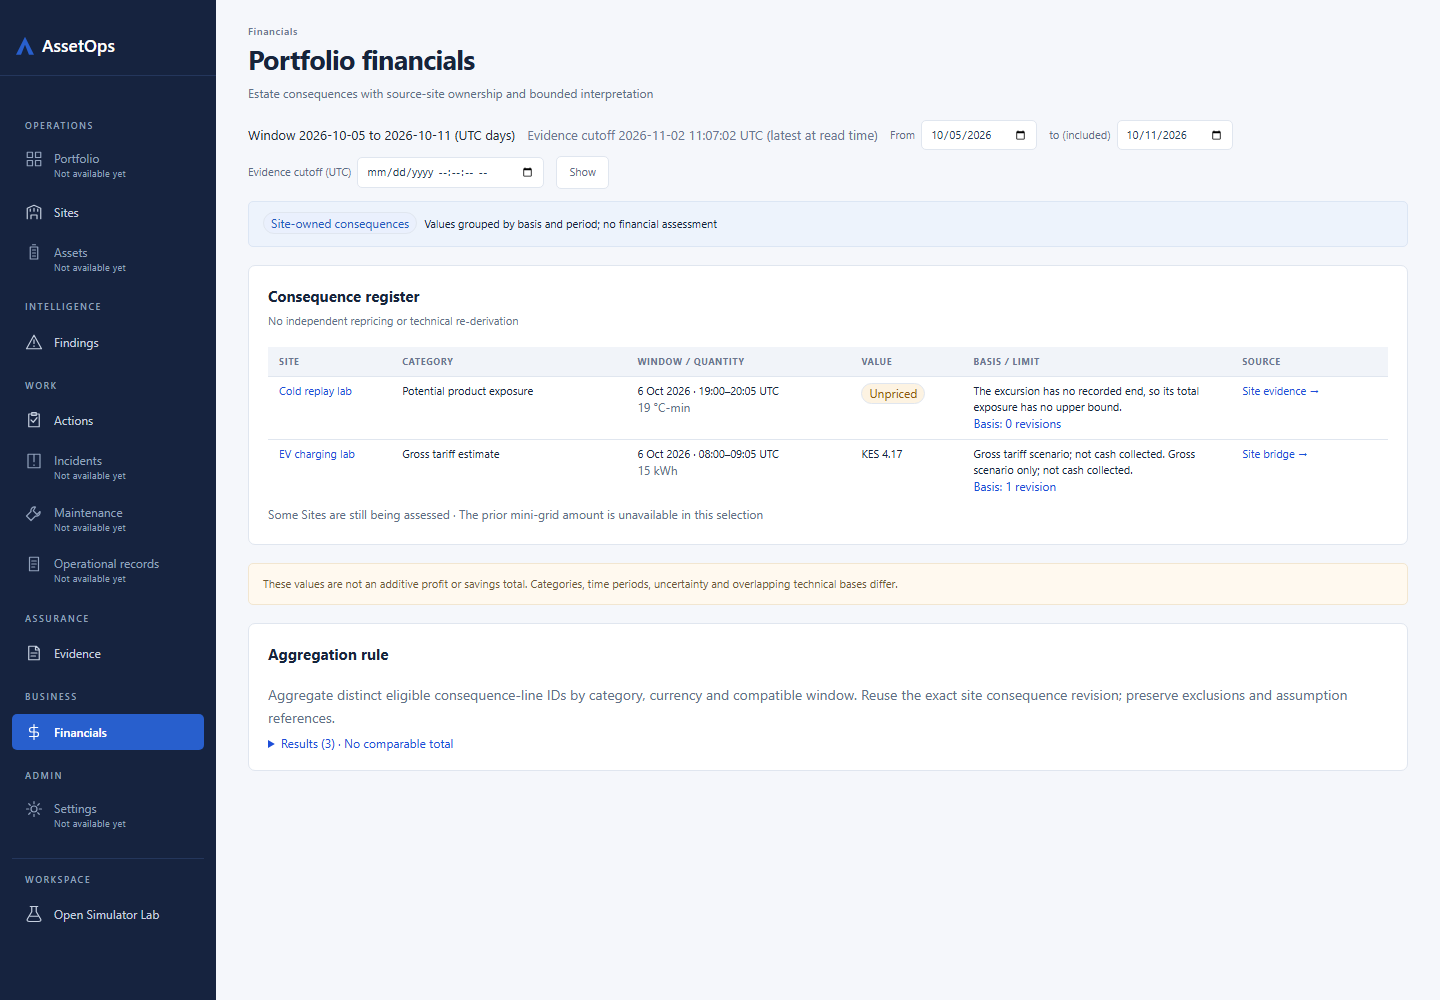
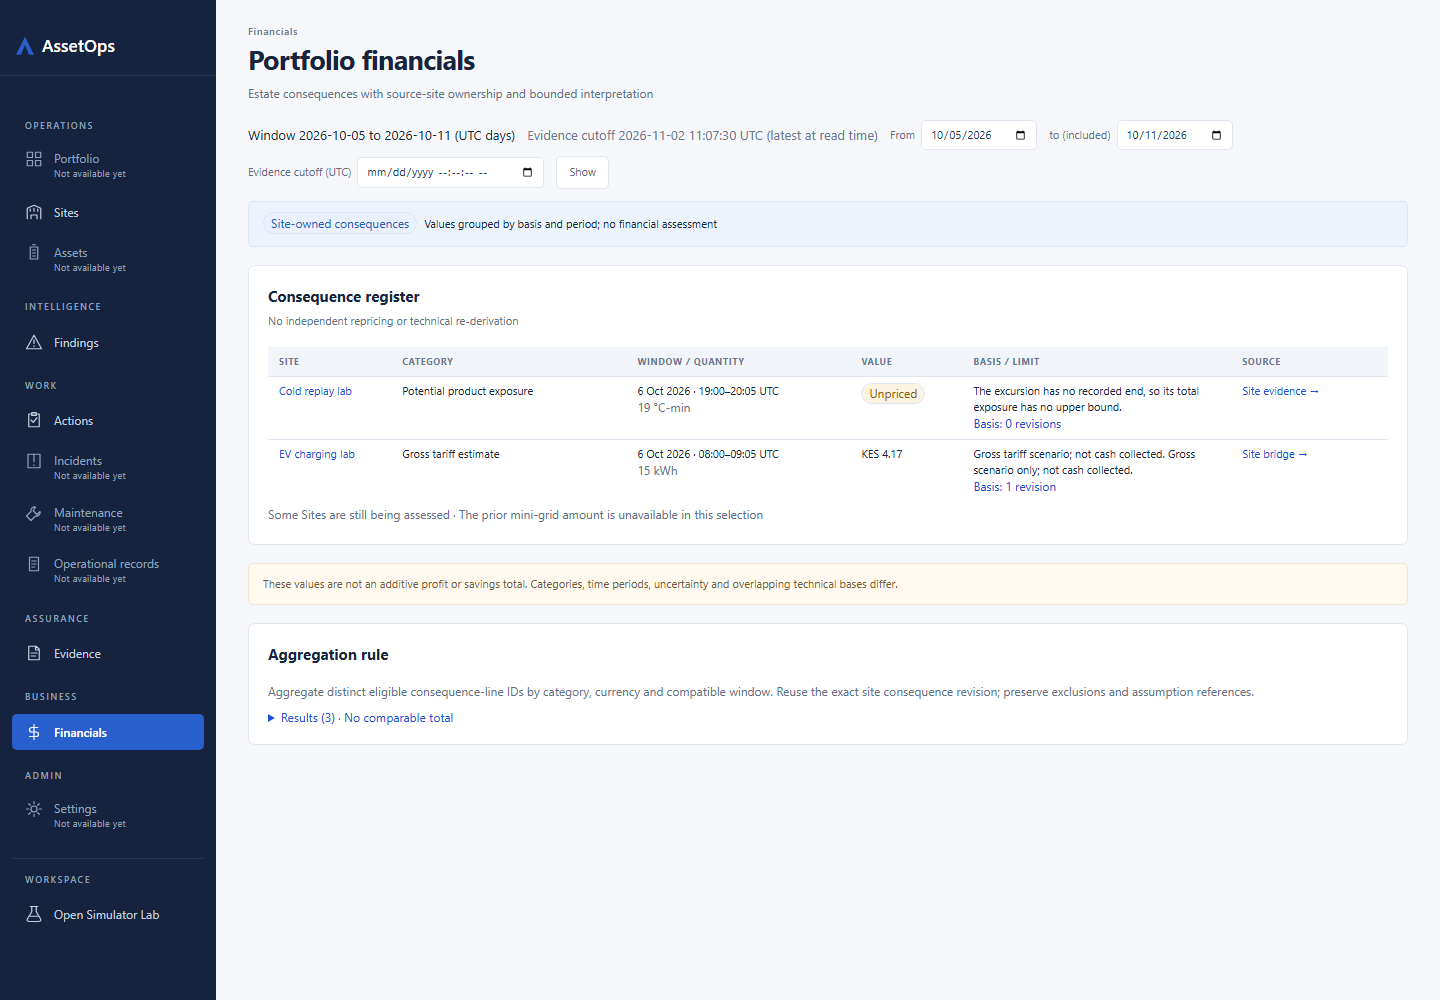
W3-02 c4b: Aggregation prose at mock 12px/1.8, both caps asserted, recaptured

Changed region(s): [[0.1875, 0.682, 0.9375, 0.744]]

diff --git a/frontend/src/estate/__tests__/estateFinancials.test.tsx b/frontend/src/estate/__tests__/estateFinancials.test.tsx
@@ -488,8 +488,7 @@ describe("W3-02 commit 4 measured Financials layout", () => {
     // jsdom has no layout: this reads the real-browser 390 px measurements of the mounted `/financials` page
     // (`.agent/W3-02-evidence/capture-financials.mjs`). Ruling c4: the closed results summary stays within its 24 px
     // allowance at 12 px; opened, the results list never scrolls internally, every group/diagnostic/exclusion is visible
-    // and the page stays unclipped. The closed panel's 187 px cap is not met by the 14 px prose alone (pending c4-q4),
-    // so the panel height is recorded in the capture, not asserted here.
+    // and the page stays unclipped. Ruling c4b: the 12px/1.8 mock prose keeps the closed Aggregation panel within 123 (1440) / 187 (390).
     for (const state of ["positive", "partial"]) {
       const file = `../.agent/W3-02-evidence/app-financials-${state}.json`;
       const narrow = (JSON.parse(await readDisk(file)).results as Record<string, any>[]).find((r) => r.width === 390);
@@ -500,7 +499,7 @@ describe("W3-02 commit 4 measured Financials layout", () => {
       for (const piece of ["status", "register", "notice", "aggregation"]) {
         expect(narrow!.pieces[piece], `${state} ${piece} measured`).not.toBeNull();
       }
-      for (const piece of ["status", "register", "notice"]) {
+      for (const piece of ["status", "register", "notice", "aggregation"]) {
         expect(narrow!.pieces[piece].h, `${state} ${piece} within its 390 maximum`).toBeLessThanOrEqual(narrow!.maxima[piece]);
       }
       const t = narrow!.registerTable;
@@ -509,6 +508,16 @@ describe("W3-02 commit 4 measured Financials layout", () => {
       expect(t.rows).toBeGreaterThan(0);
       expect(t.scroll).toBeGreaterThanOrEqual(t.client); // the table scrolls inside its own container
       expect(t.client).toBeLessThanOrEqual(narrow!.docClientW);
+      const all = JSON.parse(await readDisk(file)).results as Record<string, any>[];
+      for (const r of all) {
+        expect(r.pieces.aggregation.h, `${state} ${r.width} aggregation within cap`).toBeLessThanOrEqual(r.width === 1440 ? 123 : 187);
+        expect(r.aggParts.proseFs).toBe("12px");
+        expect(r.aggParts.proseLh).toBe("21.6px");
+      }
+      const ap = narrow!.aggParts;
+      expect(ap.proseFs).toBe("12px");
+      expect(ap.proseLh).toBe("21.6px");
+      expect(narrow!.aggSummary.lines).toBe(1);
       const s = narrow!.aggSummary;
       expect(s.open).toBe(false);
       expect(s.fontSize).toBe("12px");

diff --git a/frontend/src/estate/EstateFinancials.tsx b/frontend/src/estate/EstateFinancials.tsx
@@ -405,8 +405,8 @@ export function EstateFinancialsPage({ client }: { client?: EstateFinancialsClie
           <Notice tone="amber" data={{ "data-estate-notice": "" }}>
             {FINANCIALS_NOTICE}
           </Notice>
-          <Panel heading={AGGREGATION_PANEL} headingId="estate-financials-aggregation-heading">
-            <p className="prose estate-financials-prose">{AGGREGATION_PROSE}</p>
+          <Panel heading={AGGREGATION_PANEL} headingId="estate-financials-aggregation-heading" className="estate-financials__aggregation">
+            <p className="prose estate-financials-prose estate-financials__aggregation-prose">{AGGREGATION_PROSE}</p>
             <AggregationResults body={read.value} />
           </Panel>
         </>

diff --git a/frontend/src/estate/estateFinancials.css b/frontend/src/estate/estateFinancials.css
@@ -67,3 +67,13 @@
     max-height: 300px;
   }
 }
+
+/* Ruling c4b: the mock's 12px / 1.8 prose; the 2px header-gap reduction absorbs the fractional 21.6px line boxes. */
+.estate-financials__aggregation .panel__header {
+  margin-bottom: 15px;
+}
+.estate-financials__aggregation .estate-financials__aggregation-prose {
+  margin: 0;
+  font-size: 12px;
+  line-height: 1.8;
+}

diff --git a/.agent/W3-02-phase-handoff.md b/.agent/W3-02-phase-handoff.md
@@ -395,3 +395,7 @@ Checks: see the commit message. Branch released.
 
 ## Commit-3 review r1 fix round (done)
 M1 (cold withheld -> covered=False, test extended), M2 (Composite repo already as ruled; RESOLVED marking corrected in pending rulings), L1 (only ERROR_PENDING pends), L2 (TARIFF_UNIT), L4 (PARTITION_INELIGIBLE), L6 (text). L3/L5 carry to commit 4 (copy: "lines in the differing-value category"; mini-grid pending/stale prior amount unavailable in this selection; UI state check; render PARTITION_INELIGIBLE in plain language). Proof: 136 passed, 0 skipped on private DB w302v_test (dropped); check-all 11/11.
+
+## c4b applied - READY FOR FINAL REVIEW
+- c4-q4 resolved: Aggregation panel local class (12px / 1.8 prose, 15px header gap) per c4b. Recaptured (private `w302y_test`, dropped; servers stopped by port): Aggregation closed 121 (cap 123) at 1440, 186 (cap 187) at 390, both states; summary one line; open lists unclipped, doc width = client. 390 image viewed. Test asserts both caps and 12px/21.6px.
+- Frontend 2435 passed, tsc clean, build ok, check-all 11/11. W3-02 is ready for its final review.

diff --git a/.agent/W3-02-pending-rulings.md b/.agent/W3-02-pending-rulings.md
@@ -206,7 +206,7 @@ shows three rows, so the measured register height is below a three-row baseline.
 capture acceptable, or must Lane B/Lane A add a persisted W1 consequence seed (`test_s4_consequence_store_postgres.py`
 `PowerSite`) before review?
 
-## c4-q4 - Aggregation closed cap not met at readable prose size (Lane B, commit-4 fixes)
+## c4-q4 - Aggregation closed cap not met at readable prose size (Lane B, commit-4 fixes) [RESOLVED by c4b: 12px/1.8 prose; measured 121/186 within 123/187]
 Ruling c4 implemented (one closed `Disclosure` summary, `Results (3) · No comparable total`, 12/16 px, one line at
 390; accessible name `3 grouping results. Comparable total unavailable for this selection.`; no default no-total
 paragraph; list `max-height`/`overflow` removed). The summary meets its allowance: wrapper 22 px <= 24 at both widths.
